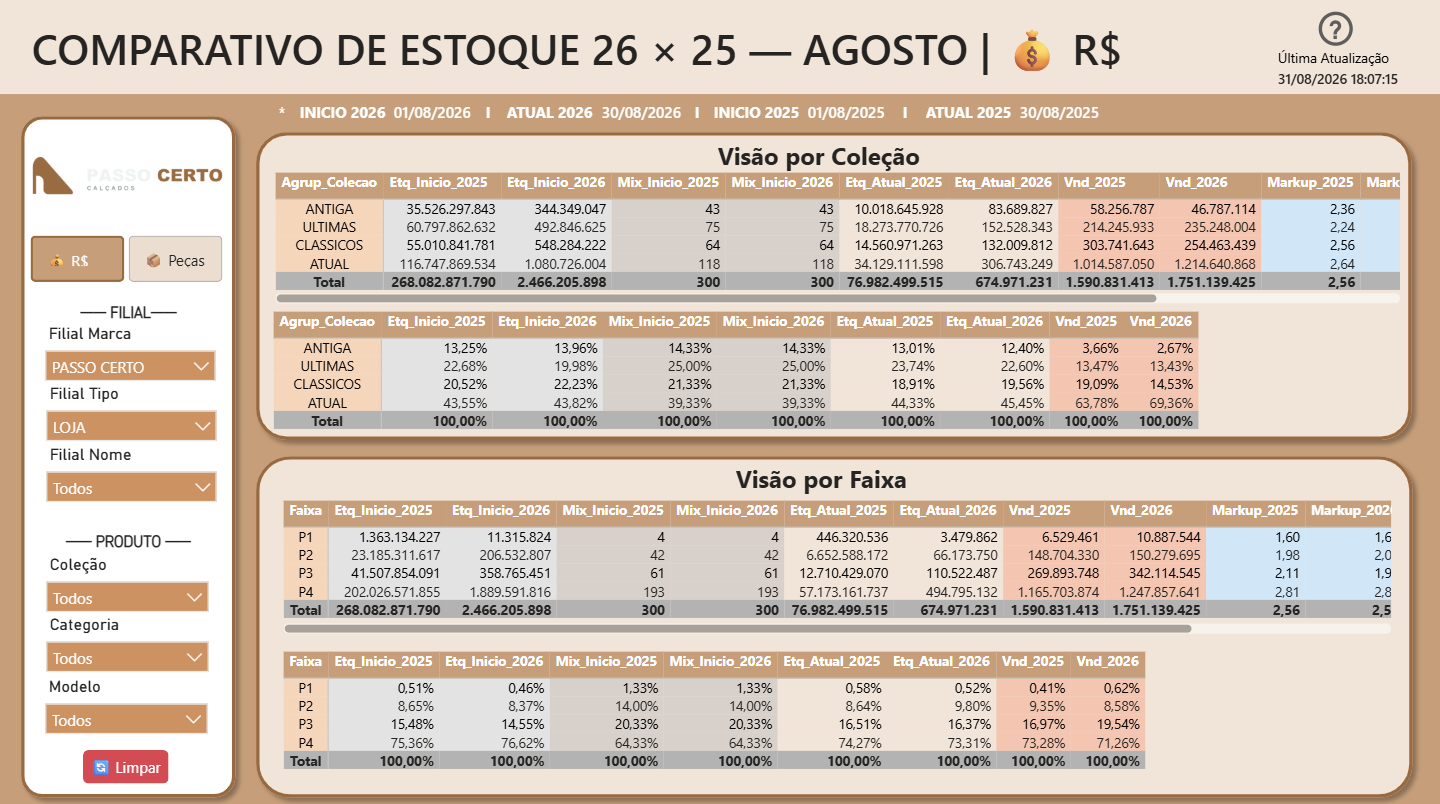
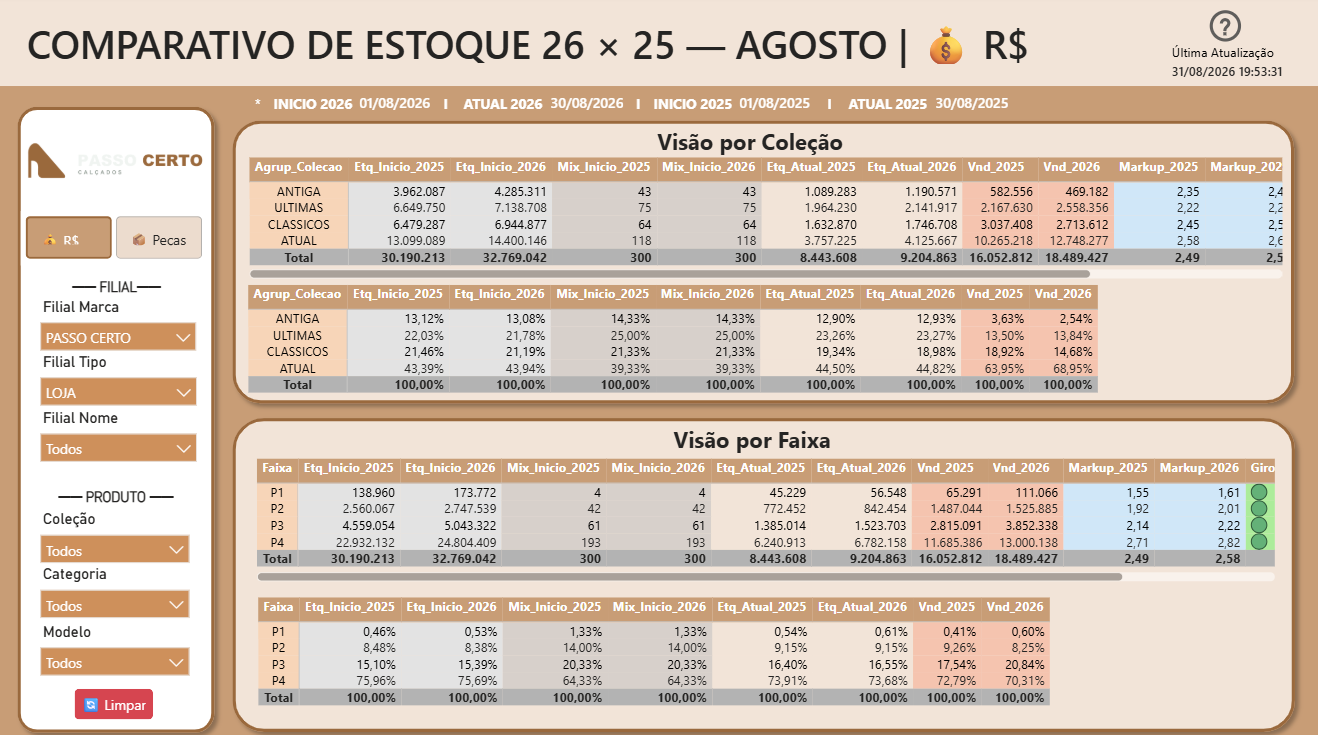
Case #2: adiciona miniatura da visao R$ (valores corrigidos) no card

diff --git a/index.html b/index.html
@@ -147,9 +147,12 @@
           <p class="case__sub">Estoque atual × período anterior, por filial, coleção e faixa de preço.</p>
           <figure class="case__media">
             <a href="assets/comparativo_pecas.png" target="_blank" rel="noopener">
-              <img class="case__img" src="assets/comparativo_pecas.png" alt="Dashboard Comparativo de Estoque: giro por coleção e faixa, estoque 2026 × 2025, com variação e mix de referências" loading="lazy" />
+              <img class="case__img" src="assets/comparativo_pecas.png" alt="Dashboard Comparativo de Estoque em peças: giro por coleção e faixa, estoque 2026 × 2025, com variação e mix de referências" loading="lazy" />
             </a>
-            <figcaption>Dados sintéticos de uma loja fictícia (Passo Certo). 300 referências; estoque e giro comparados 26 × 25 por coleção e faixa.</figcaption>
+            <div class="case__thumbs">
+              <a href="assets/comparativo_rs.png" target="_blank" rel="noopener"><img src="assets/comparativo_rs.png" alt="Mesma visão em R$: estoque valorizado, vendas e markup 26 × 25" loading="lazy" /></a>
+            </div>
+            <figcaption>Dados sintéticos de uma loja fictícia (Passo Certo). 300 referências; estoque e giro comparados 26 × 25 por coleção e faixa, em peças e em R$.</figcaption>
           </figure>
           <dl class="qa">
             <div><dt>Problema</dt><dd>Compras e diretoria sem uma visão única de como o estoque evoluiu entre períodos e onde ele está concentrado.</dd></div>
